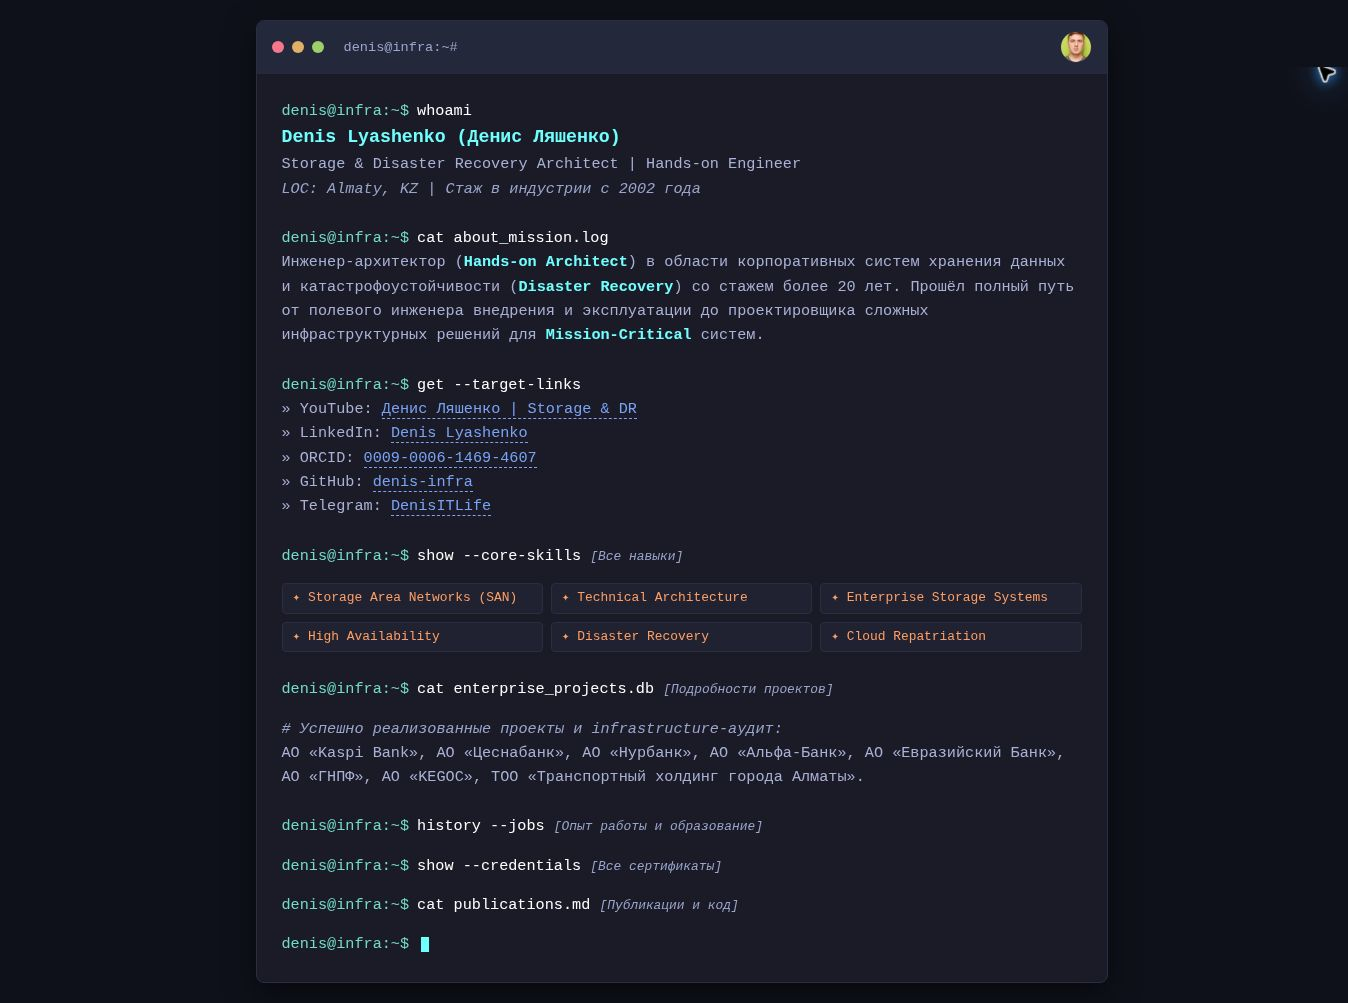
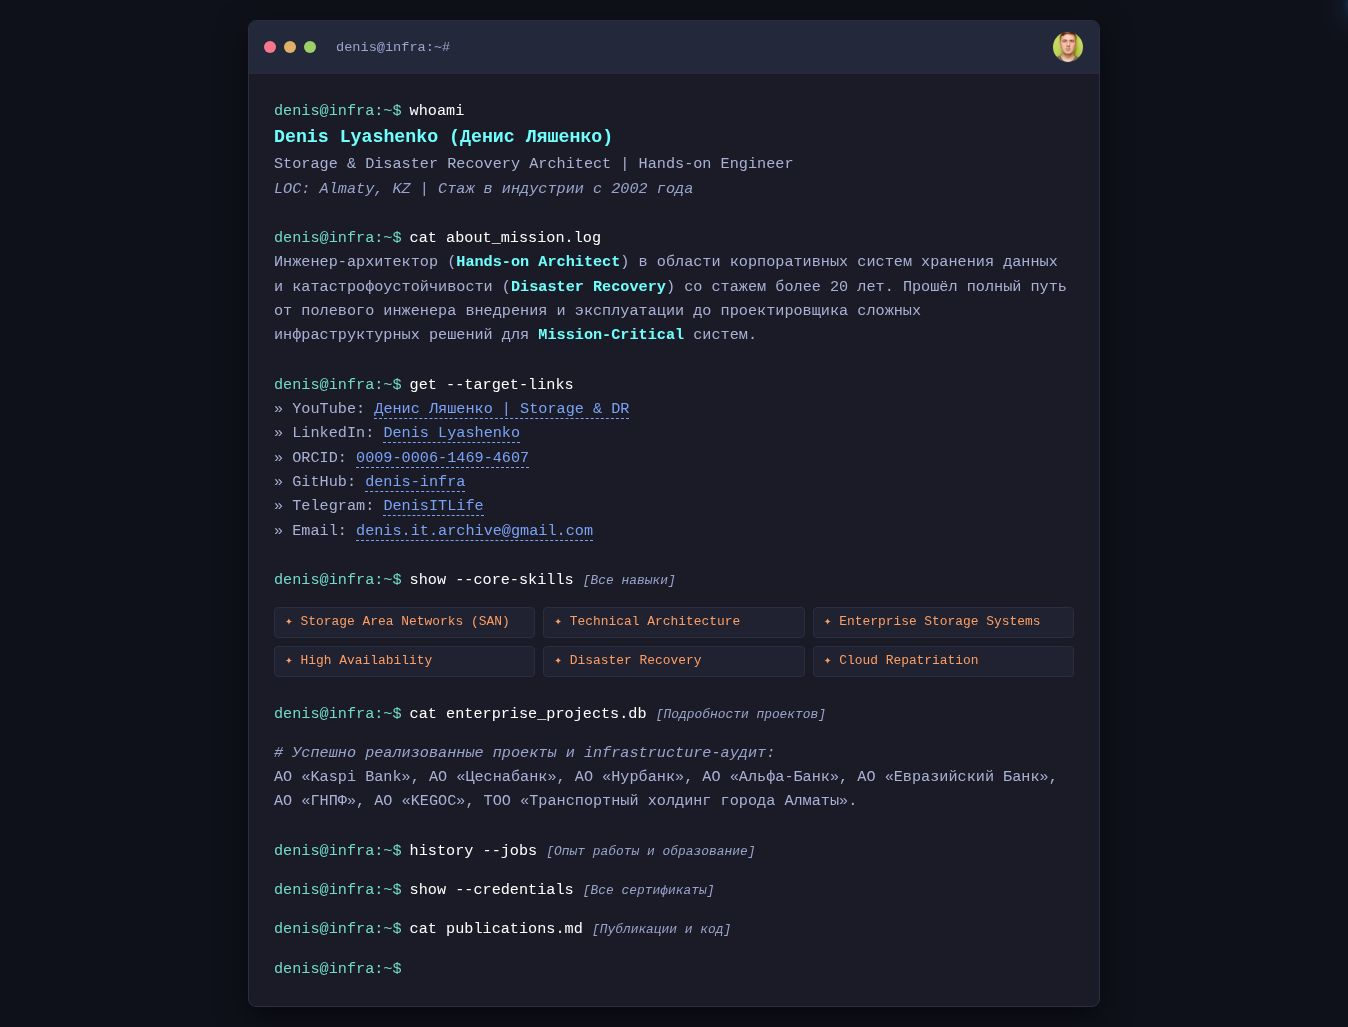
Refresh full-page social preview after audit improvements

diff --git a/index.html b/index.html
@@ -9,7 +9,7 @@
     <meta property="og:description" content="Денис Ляшенко: Инженер-архитектор (Hands-on Architect) в области корпоративных систем хранения данных и катастрофоустойчивости (Disaster Recovery) со стажем более 20 лет. Прошёл полный путь от полевого инженера внедрения и эксплуатации до проектировщика сложных инфраструктурных решений для Mission-Critical систем.">
     <meta property="og:image" content="https://denis-infra.github.io/images/preview.jpg">
     <meta property="og:image:width" content="1348">
-    <meta property="og:image:height" content="1003">
+    <meta property="og:image:height" content="1027">
     <meta property="og:image:alt" content="Профессиональный профиль Дениса Ляшенко — Storage &amp; Disaster Recovery Architect">
     <meta property="og:type" content="website">
     <meta property="og:url" content="https://denis-infra.github.io/">
